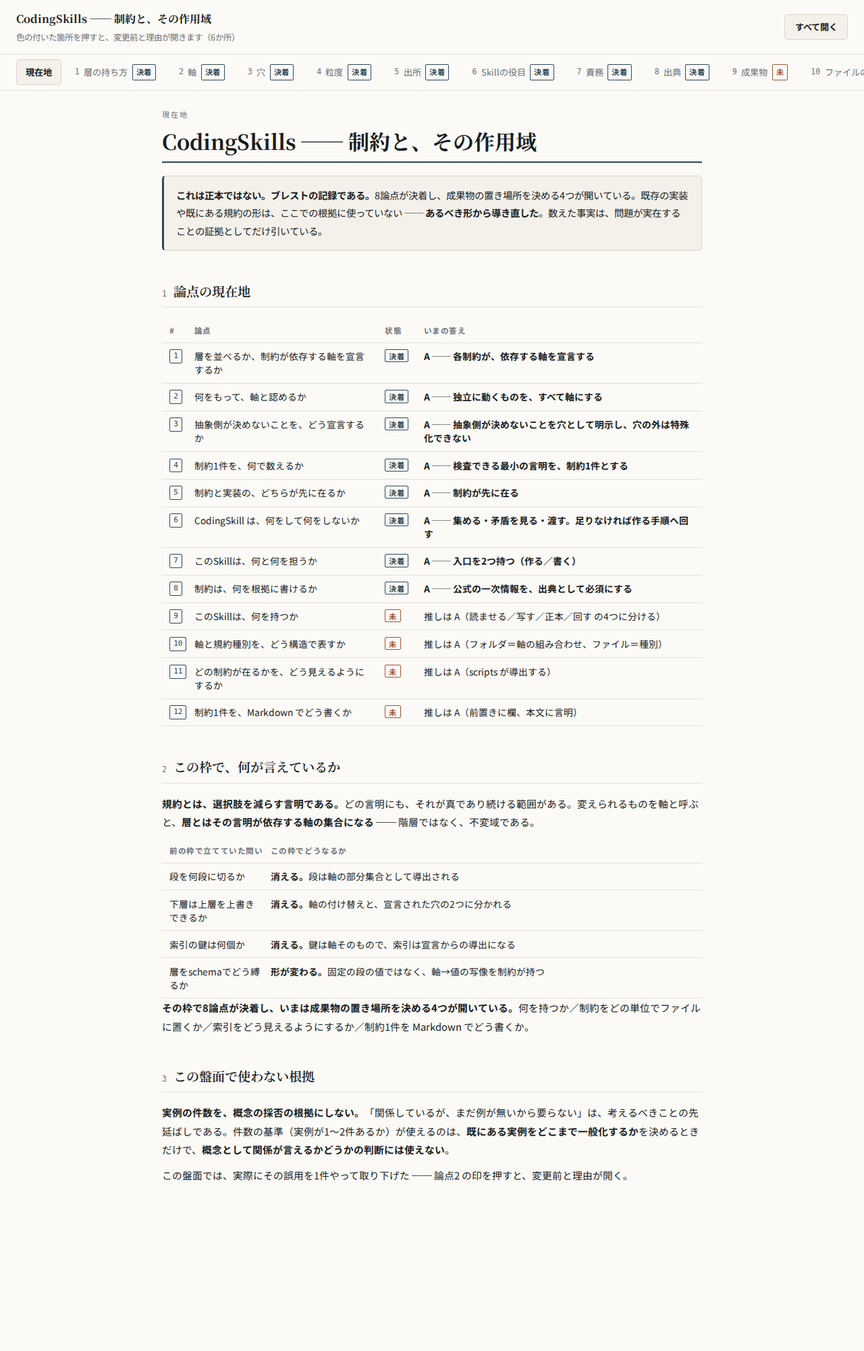
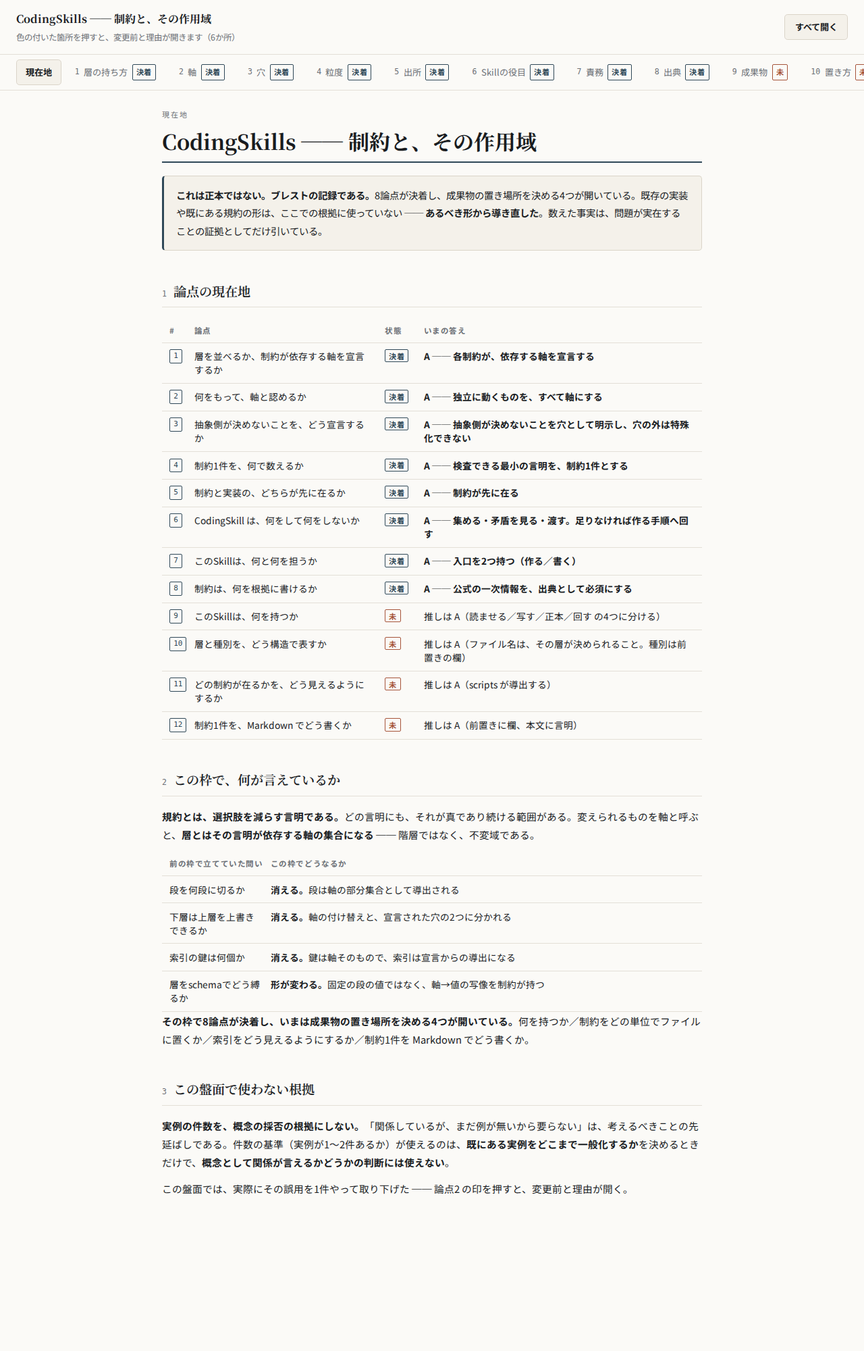
層ごとに置く文書を変え、種別は欄へ移す
すべての層へ同じ4種別の文書を並べる案を取り下げた。層ごとに決められることが
違うので、置く文書も層ごとに違う ── 言語は綴りと失敗の運び方とテストが走る
仕組み、アーキテクチャは層と依存の向き、言語×アーキは層の表し方とテストの
置き場所、用途は外との契約と保証する振る舞い。

種別（コーディング／テスト／アーキテクチャ／技術スタック）は前置きの欄に持つ。
横断で引くための分類であって、置き場所ではない。

Why: 同じ「テスト規約」でも、言語の層は走る仕組み、用途の層は保証する振る舞いで、
宣言する中身の構造が違う。同じ名前で並べると、読み手がどちらを見るかを毎回
判断することになる。アーキと言語×アーキの両方に architecture.md を置く案も、
名前が中身を言っていなかったので落とした。

Claude-Session: https://claude.ai/code/session_01VoPqHBXHr7Npdh9tNXyFNU

Changed region(s): [[0.1875, 0.465, 0.8125, 0.899], [0.9688, 0.031, 1.0, 0.062]]

diff --git a/docs/adr/brainstorm-coding-skills.html b/docs/adr/brainstorm-coding-skills.html
@@ -43,6 +43,8 @@ table.out b{color:var(--out);text-decoration:line-through}
 table.chain th:first-child,table.chain td:first-child{width:6.5rem;padding-right:.6rem}
 table.why{border-collapse:separate;border-spacing:0}
 table.why th{padding-bottom:.4rem}
+table.plainkey th:first-child,table.plainkey td:first-child{width:9rem;padding-right:.9rem;
+  white-space:normal;color:var(--key)}
 table.why th:first-child,table.why td:first-child{width:23%;padding-right:.8rem}
 table.why th:last-child,table.why td:last-child{width:27%}
 table.why td{border-bottom:none;padding:.65rem .7rem;background:var(--surface,transparent)}
@@ -122,7 +124,7 @@ mark.chg.del b{text-decoration:line-through}
 .st.done{color:var(--key);border-color:var(--key)}
 .st.open{color:var(--add);border-color:var(--add)}
 section[role="tabpanel"][hidden]{display:none}
-</style><div class="hd"><div class="t">CodingSkills ── 制約と、その作用域<small>色の付いた箇所を押すと、変更前と理由が開きます（<span id="n">0</span>か所）</small></div><button id="all" type="button">すべて開く</button></div><div class="tabs" role="tablist"><button role="tab" aria-selected="true" data-t="p0">現在地</button><button role="tab" aria-selected="false" data-t="p1"><span class="tn">1</span>層の持ち方<span class="st done">決着</span></button><button role="tab" aria-selected="false" data-t="p2"><span class="tn">2</span>軸<span class="st done">決着</span></button><button role="tab" aria-selected="false" data-t="p3"><span class="tn">3</span>穴<span class="st done">決着</span></button><button role="tab" aria-selected="false" data-t="p4"><span class="tn">4</span>粒度<span class="st done">決着</span></button><button role="tab" aria-selected="false" data-t="p5"><span class="tn">5</span>出所<span class="st done">決着</span></button><button role="tab" aria-selected="false" data-t="p6"><span class="tn">6</span>Skillの役目<span class="st done">決着</span></button><button role="tab" aria-selected="false" data-t="p7"><span class="tn">7</span>責務<span class="st done">決着</span></button><button role="tab" aria-selected="false" data-t="p8"><span class="tn">8</span>出典<span class="st done">決着</span></button><button role="tab" aria-selected="false" data-t="p9"><span class="tn">9</span>成果物<span class="st open">未</span></button><button role="tab" aria-selected="false" data-t="p10"><span class="tn">10</span>ファイルの切り方<span class="st open">未</span></button><button role="tab" aria-selected="false" data-t="p11"><span class="tn">11</span>索引<span class="st open">未</span></button><button role="tab" aria-selected="false" data-t="p12"><span class="tn">12</span>制約の書き表し方<span class="st open">未</span></button></div><main><section id="p0" role="tabpanel"><p class="eyebrow">現在地</p><h1>CodingSkills ── 制約と、その作用域</h1><div class="note"><b>これは正本ではない。ブレストの記録である。</b>8論点が決着し、成果物の置き場所を決める4つが開いている。既存の実装や既にある規約の形は、ここでの根拠に使っていない ── <b>あるべき形から導き直した</b>。数えた事実は、問題が実在することの証拠としてだけ引いている。</div><h2><span class="sn">1</span>論点の現在地</h2><div class="scroll"><table class=""><tr><th>#</th><th>論点</th><th>状態</th><th>いまの答え</th></tr><tr><td><span class="n">1</span></td><td>層を並べるか、制約が依存する軸を宣言するか</td><td><span class="st done">決着</span></td><td><b>A ── 各制約が、依存する軸を宣言する</b></td></tr><tr><td><span class="n">2</span></td><td>何をもって、軸と認めるか</td><td><span class="st done">決着</span></td><td><b>A ── 独立に動くものを、すべて軸にする</b></td></tr><tr><td><span class="n">3</span></td><td>抽象側が決めないことを、どう宣言するか</td><td><span class="st done">決着</span></td><td><b>A ── 抽象側が決めないことを穴として明示し、穴の外は特殊化できない</b></td></tr><tr><td><span class="n">4</span></td><td>制約1件を、何で数えるか</td><td><span class="st done">決着</span></td><td><b>A ── 検査できる最小の言明を、制約1件とする</b></td></tr><tr><td><span class="n">5</span></td><td>制約と実装の、どちらが先に在るか</td><td><span class="st done">決着</span></td><td><b>A ── 制約が先に在る</b></td></tr><tr><td><span class="n">6</span></td><td>CodingSkill は、何をして何をしないか</td><td><span class="st done">決着</span></td><td><b>A ── 集める・矛盾を見る・渡す。足りなければ作る手順へ回す</b></td></tr><tr><td><span class="n">7</span></td><td>このSkillは、何と何を担うか</td><td><span class="st done">決着</span></td><td><b>A ── 入口を2つ持つ（作る／書く）</b></td></tr><tr><td><span class="n">8</span></td><td>制約は、何を根拠に書けるか</td><td><span class="st done">決着</span></td><td><b>A ── 公式の一次情報を、出典として必須にする</b></td></tr><tr><td><span class="n">9</span></td><td>このSkillは、何を持つか</td><td><span class="st open">未</span></td><td>推しは A（読ませる／写す／正本／回す の4つに分ける）</td></tr><tr><td><span class="n">10</span></td><td>軸と規約種別を、どう構造で表すか</td><td><span class="st open">未</span></td><td>推しは A（フォルダ＝軸の組み合わせ、ファイル＝種別）</td></tr><tr><td><span class="n">11</span></td><td>どの制約が在るかを、どう見えるようにするか</td><td><span class="st open">未</span></td><td>推しは A（scripts が導出する）</td></tr><tr><td><span class="n">12</span></td><td>制約1件を、Markdown でどう書くか</td><td><span class="st open">未</span></td><td>推しは A（前置きに欄、本文に言明）</td></tr></table></div><h2><span class="sn">2</span>この枠で、何が言えているか</h2><p class='lead'><b>規約とは、選択肢を減らす言明である。</b>どの言明にも、それが真であり続ける範囲がある。変えられるものを軸と呼ぶと、<b>層とはその言明が依存する軸の集合になる</b> ── 階層ではなく、不変域である。</p><div class="scroll"><table class=""><tr><th>前の枠で立てていた問い</th><th>この枠でどうなるか</th></tr><tr><td>段を何段に切るか</td><td><b>消える。</b>段は軸の部分集合として導出される</td></tr><tr><td>下層は上層を上書きできるか</td><td><b>消える。</b>軸の付け替えと、宣言された穴の2つに分かれる</td></tr><tr><td>索引の鍵は何個か</td><td><b>消える。</b>鍵は軸そのもので、索引は宣言からの導出になる</td></tr><tr><td>層をschemaでどう縛るか</td><td><b>形が変わる。</b>固定の段の値ではなく、軸→値の写像を制約が持つ</td></tr></table></div><p class='lead'><b>その枠で8論点が決着し、いまは成果物の置き場所を決める4つが開いている。</b>何を持つか／制約をどの単位でファイルに置くか／索引をどう見えるようにするか／制約1件を Markdown でどう書くか。</p><h2><span class="sn">3</span>この盤面で使わない根拠</h2><p class='lead'><b>実例の件数を、概念の採否の根拠にしない。</b>「関係しているが、まだ例が無いから要らない」は、考えるべきことの先延ばしである。件数の基準（実例が1〜2件あるか）が使えるのは、<b>既にある実例をどこまで一般化するか</b>を決めるときだけで、<b>概念として関係が言えるかどうかの判断には使えない</b>。</p><p class='lead'>この盤面では、実際にその誤用を1件やって取り下げた ── 論点2 の印を押すと、変更前と理由が開く。</p></section><section id="p1" role="tabpanel" hidden><p class="eyebrow">論点 1</p><h1>層を並べるか、制約が依存する軸を宣言するか</h1><div class="note"><b>制約とは、選択肢を減らす言明である。そしてどの制約にも、それが真であり続ける範囲がある。</b>変えられるものを軸と呼ぶと、<b>層とは、その制約が依存する軸の集合になる</b>。</div><h2><span class="sn">1</span>反証を通過した案</h2><div class="scroll"><table class="opts"><tr><th></th><th>案</th><th>中身</th><th>代償</th></tr><tr><td><span class="n ">A</span></td><td><b>各制約が、依存する軸を宣言する</b></td><td>層は宣言から導出される。フォルダは、その導出をどう並べて見せるかにすぎない</td><td><span class="cost">制約1件ごとに宣言を書く手間が増える。<b>層が一覧として見えないので、見せ方を別に作る</b></span></td></tr><tr><td><span class="n ">B</span></td><td><b>層をあらかじめ並べ、制約をそこへ置く</b></td><td>言語／アーキ／束ね／目的の段を先に決め、規約をその段へ配る</td><td><span class="cost"><b>軸が増えたとき、段の切り直しになる</b>。実行環境や規模を軸に足したくなった時点で、全部を並べ替える</span></td></tr><tr><td><span class="n ">C</span></td><td><b>層を持たず、場面ごとに規約一式を作る</b></td><td>目的と言語の組ごとに、必要な制約を全部書く</td><td><span class="cost">同じ言明が組の数だけ写る。<b>直す場所が1か所に決まらない</b></span></td></tr></table></div><h2><span class="sn">2</span>反証で分かったこと</h2><ul class='found'><li><b>「4段」は、軸を2本に絞ったときの部分集合にすぎなかった。</b>段数は決めるものではなく、軸から導出される</li><li><b>フォルダ構成は、この論点の答えではない。</b>導出をどう見せるかであって、何が真かとは別のこと</li></ul><h2><span class="sn">3</span>私の推し</h2><div class="concl"><span class="n big">A</span><div><p>各制約が、依存する軸を宣言する。層はそこから導出する</p></div></div><h3>なぜそう言えるか</h3><div class="scroll"><table class="why"><tr><th>結論のどこを支えるか</th><th>もとにしたこと</th><th>その出どころ</th></tr><tr><td><span class="part">層を導出にすること</span></td><td>層とは、制約が依存する軸の集合である</td><td><span class="kind k-given">前提</span><small>この盤面の出発点（規約＝制約の宣言、作用域＝依存する軸）</small></td></tr><tr><td><span class="part">並べないこと</span></td><td>層を先に並べると、宣言の誤りが「どの段に置くか」の悩みとして出る</td><td><span class="kind k-rule">決まり</span><small>前の枠で実際に4段を並べ、段の切り方が論点になった</small></td></tr><tr><td><span class="part">フォルダを答えにしないこと</span></td><td>同じ制約が2か所に現れるのは、軸の宣言が足りないとき</td><td><span class="kind k-given">前提</span><small>既存の規約13本で、同じ言明が対象ごとに写っている（`.waffle/documents/coding`）</small></td></tr></table></div><h3>図で見る</h3><figure><svg viewBox="0 0 780 320" role="img" aria-label="各制約が依存する軸を宣言すると、層はその宣言から導出される">
+</style><div class="hd"><div class="t">CodingSkills ── 制約と、その作用域<small>色の付いた箇所を押すと、変更前と理由が開きます（<span id="n">0</span>か所）</small></div><button id="all" type="button">すべて開く</button></div><div class="tabs" role="tablist"><button role="tab" aria-selected="true" data-t="p0">現在地</button><button role="tab" aria-selected="false" data-t="p1"><span class="tn">1</span>層の持ち方<span class="st done">決着</span></button><button role="tab" aria-selected="false" data-t="p2"><span class="tn">2</span>軸<span class="st done">決着</span></button><button role="tab" aria-selected="false" data-t="p3"><span class="tn">3</span>穴<span class="st done">決着</span></button><button role="tab" aria-selected="false" data-t="p4"><span class="tn">4</span>粒度<span class="st done">決着</span></button><button role="tab" aria-selected="false" data-t="p5"><span class="tn">5</span>出所<span class="st done">決着</span></button><button role="tab" aria-selected="false" data-t="p6"><span class="tn">6</span>Skillの役目<span class="st done">決着</span></button><button role="tab" aria-selected="false" data-t="p7"><span class="tn">7</span>責務<span class="st done">決着</span></button><button role="tab" aria-selected="false" data-t="p8"><span class="tn">8</span>出典<span class="st done">決着</span></button><button role="tab" aria-selected="false" data-t="p9"><span class="tn">9</span>成果物<span class="st open">未</span></button><button role="tab" aria-selected="false" data-t="p10"><span class="tn">10</span>置き方<span class="st open">未</span></button><button role="tab" aria-selected="false" data-t="p11"><span class="tn">11</span>索引<span class="st open">未</span></button><button role="tab" aria-selected="false" data-t="p12"><span class="tn">12</span>制約の書き表し方<span class="st open">未</span></button></div><main><section id="p0" role="tabpanel"><p class="eyebrow">現在地</p><h1>CodingSkills ── 制約と、その作用域</h1><div class="note"><b>これは正本ではない。ブレストの記録である。</b>8論点が決着し、成果物の置き場所を決める4つが開いている。既存の実装や既にある規約の形は、ここでの根拠に使っていない ── <b>あるべき形から導き直した</b>。数えた事実は、問題が実在することの証拠としてだけ引いている。</div><h2><span class="sn">1</span>論点の現在地</h2><div class="scroll"><table class=""><tr><th>#</th><th>論点</th><th>状態</th><th>いまの答え</th></tr><tr><td><span class="n">1</span></td><td>層を並べるか、制約が依存する軸を宣言するか</td><td><span class="st done">決着</span></td><td><b>A ── 各制約が、依存する軸を宣言する</b></td></tr><tr><td><span class="n">2</span></td><td>何をもって、軸と認めるか</td><td><span class="st done">決着</span></td><td><b>A ── 独立に動くものを、すべて軸にする</b></td></tr><tr><td><span class="n">3</span></td><td>抽象側が決めないことを、どう宣言するか</td><td><span class="st done">決着</span></td><td><b>A ── 抽象側が決めないことを穴として明示し、穴の外は特殊化できない</b></td></tr><tr><td><span class="n">4</span></td><td>制約1件を、何で数えるか</td><td><span class="st done">決着</span></td><td><b>A ── 検査できる最小の言明を、制約1件とする</b></td></tr><tr><td><span class="n">5</span></td><td>制約と実装の、どちらが先に在るか</td><td><span class="st done">決着</span></td><td><b>A ── 制約が先に在る</b></td></tr><tr><td><span class="n">6</span></td><td>CodingSkill は、何をして何をしないか</td><td><span class="st done">決着</span></td><td><b>A ── 集める・矛盾を見る・渡す。足りなければ作る手順へ回す</b></td></tr><tr><td><span class="n">7</span></td><td>このSkillは、何と何を担うか</td><td><span class="st done">決着</span></td><td><b>A ── 入口を2つ持つ（作る／書く）</b></td></tr><tr><td><span class="n">8</span></td><td>制約は、何を根拠に書けるか</td><td><span class="st done">決着</span></td><td><b>A ── 公式の一次情報を、出典として必須にする</b></td></tr><tr><td><span class="n">9</span></td><td>このSkillは、何を持つか</td><td><span class="st open">未</span></td><td>推しは A（読ませる／写す／正本／回す の4つに分ける）</td></tr><tr><td><span class="n">10</span></td><td>層と種別を、どう構造で表すか</td><td><span class="st open">未</span></td><td>推しは A（ファイル名は、その層が決められること。種別は前置きの欄）</td></tr><tr><td><span class="n">11</span></td><td>どの制約が在るかを、どう見えるようにするか</td><td><span class="st open">未</span></td><td>推しは A（scripts が導出する）</td></tr><tr><td><span class="n">12</span></td><td>制約1件を、Markdown でどう書くか</td><td><span class="st open">未</span></td><td>推しは A（前置きに欄、本文に言明）</td></tr></table></div><h2><span class="sn">2</span>この枠で、何が言えているか</h2><p class='lead'><b>規約とは、選択肢を減らす言明である。</b>どの言明にも、それが真であり続ける範囲がある。変えられるものを軸と呼ぶと、<b>層とはその言明が依存する軸の集合になる</b> ── 階層ではなく、不変域である。</p><div class="scroll"><table class=""><tr><th>前の枠で立てていた問い</th><th>この枠でどうなるか</th></tr><tr><td>段を何段に切るか</td><td><b>消える。</b>段は軸の部分集合として導出される</td></tr><tr><td>下層は上層を上書きできるか</td><td><b>消える。</b>軸の付け替えと、宣言された穴の2つに分かれる</td></tr><tr><td>索引の鍵は何個か</td><td><b>消える。</b>鍵は軸そのもので、索引は宣言からの導出になる</td></tr><tr><td>層をschemaでどう縛るか</td><td><b>形が変わる。</b>固定の段の値ではなく、軸→値の写像を制約が持つ</td></tr></table></div><p class='lead'><b>その枠で8論点が決着し、いまは成果物の置き場所を決める4つが開いている。</b>何を持つか／制約をどの単位でファイルに置くか／索引をどう見えるようにするか／制約1件を Markdown でどう書くか。</p><h2><span class="sn">3</span>この盤面で使わない根拠</h2><p class='lead'><b>実例の件数を、概念の採否の根拠にしない。</b>「関係しているが、まだ例が無いから要らない」は、考えるべきことの先延ばしである。件数の基準（実例が1〜2件あるか）が使えるのは、<b>既にある実例をどこまで一般化するか</b>を決めるときだけで、<b>概念として関係が言えるかどうかの判断には使えない</b>。</p><p class='lead'>この盤面では、実際にその誤用を1件やって取り下げた ── 論点2 の印を押すと、変更前と理由が開く。</p></section><section id="p1" role="tabpanel" hidden><p class="eyebrow">論点 1</p><h1>層を並べるか、制約が依存する軸を宣言するか</h1><div class="note"><b>制約とは、選択肢を減らす言明である。そしてどの制約にも、それが真であり続ける範囲がある。</b>変えられるものを軸と呼ぶと、<b>層とは、その制約が依存する軸の集合になる</b>。</div><h2><span class="sn">1</span>反証を通過した案</h2><div class="scroll"><table class="opts"><tr><th></th><th>案</th><th>中身</th><th>代償</th></tr><tr><td><span class="n ">A</span></td><td><b>各制約が、依存する軸を宣言する</b></td><td>層は宣言から導出される。フォルダは、その導出をどう並べて見せるかにすぎない</td><td><span class="cost">制約1件ごとに宣言を書く手間が増える。<b>層が一覧として見えないので、見せ方を別に作る</b></span></td></tr><tr><td><span class="n ">B</span></td><td><b>層をあらかじめ並べ、制約をそこへ置く</b></td><td>言語／アーキ／束ね／目的の段を先に決め、規約をその段へ配る</td><td><span class="cost"><b>軸が増えたとき、段の切り直しになる</b>。実行環境や規模を軸に足したくなった時点で、全部を並べ替える</span></td></tr><tr><td><span class="n ">C</span></td><td><b>層を持たず、場面ごとに規約一式を作る</b></td><td>目的と言語の組ごとに、必要な制約を全部書く</td><td><span class="cost">同じ言明が組の数だけ写る。<b>直す場所が1か所に決まらない</b></span></td></tr></table></div><h2><span class="sn">2</span>反証で分かったこと</h2><ul class='found'><li><b>「4段」は、軸を2本に絞ったときの部分集合にすぎなかった。</b>段数は決めるものではなく、軸から導出される</li><li><b>フォルダ構成は、この論点の答えではない。</b>導出をどう見せるかであって、何が真かとは別のこと</li></ul><h2><span class="sn">3</span>私の推し</h2><div class="concl"><span class="n big">A</span><div><p>各制約が、依存する軸を宣言する。層はそこから導出する</p></div></div><h3>なぜそう言えるか</h3><div class="scroll"><table class="why"><tr><th>結論のどこを支えるか</th><th>もとにしたこと</th><th>その出どころ</th></tr><tr><td><span class="part">層を導出にすること</span></td><td>層とは、制約が依存する軸の集合である</td><td><span class="kind k-given">前提</span><small>この盤面の出発点（規約＝制約の宣言、作用域＝依存する軸）</small></td></tr><tr><td><span class="part">並べないこと</span></td><td>層を先に並べると、宣言の誤りが「どの段に置くか」の悩みとして出る</td><td><span class="kind k-rule">決まり</span><small>前の枠で実際に4段を並べ、段の切り方が論点になった</small></td></tr><tr><td><span class="part">フォルダを答えにしないこと</span></td><td>同じ制約が2か所に現れるのは、軸の宣言が足りないとき</td><td><span class="kind k-given">前提</span><small>既存の規約13本で、同じ言明が対象ごとに写っている（`.waffle/documents/coding`）</small></td></tr></table></div><h3>図で見る</h3><figure><svg viewBox="0 0 780 320" role="img" aria-label="各制約が依存する軸を宣言すると、層はその宣言から導出される">
 <text x="8" y="18" font-size="11.5" font-weight="700" fill="var(--muted)">制約</text>
 <text x="330" y="18" font-size="11.5" font-weight="700" fill="var(--muted)">依存する軸</text>
 <text x="600" y="18" font-size="11.5" font-weight="700" fill="var(--key)">導出される層</text>
@@ -381,7 +383,50 @@ section[role="tabpanel"][hidden]{display:none}
 <text x="338" y="280" font-size="11" fill="var(--add)">軸の値を渡すと、合致した制約が集まって返る</text>
 <text x="8" y="306" font-size="11.5" fill="var(--muted)">4つは役割が違う ── <tspan font-weight="700" fill="var(--key)">読ませる／写す／正本／回す</tspan>。混ぜると、どれを読むべきかを毎回判断することになる。</text>
 <text x="8" y="324" font-size="11.5" fill="var(--muted)">層でフォルダを切らない。<tspan font-weight="700" fill="var(--add)">層は宣言から導出され、フォルダは人が読むための投影にすぎない</tspan>（論点1）。</text>
-</svg><figcaption>左が置くもの、右がそれを誰がいつ使うかである。</figcaption></figure><h3>引き受けること</h3><ul class="found"><li>置き場所の判断が、制約を書くたびに1回増える</li></ul><h3>まだ崩れうるところ</h3><ul class="found"><li>scripts が動く環境（Python）を前提にする ── 動かない環境では、集める段が手作業に落ちる</li></ul><h2><span class="sn">4</span>あなたの見解</h2><div class="you">✏　記号を選ぶ（どれでもなければ、そう言う）</div><h2><span class="sn">5</span>決まり</h2><div class="next">選ばれた案が合意になり、次の論点へ</div></section><section id="p10" role="tabpanel" hidden><p class="eyebrow">論点 10</p><h1>軸と規約種別を、どう構造で表すか</h1><div class="note"><b>軸（層）と規約種別は直交する。</b>どちらか片方だけで切ると、もう片方が中に埋もれて、揃えて読むことも、機械で絞ることもできなくなる。</div><h2><span class="sn">1</span>反証を通過した案</h2><div class="scroll"><table class="opts"><tr><th></th><th>案</th><th>中身</th><th>代償</th></tr><tr><td><span class="n ">A</span></td><td><b>フォルダ＝軸の組み合わせ、ファイル＝種別</b></td><td><code>lang.rust/coding.md</code>、<code>lang.rust+arch.hexagonal/architecture.md</code> のように置く</td><td><span class="cost">軸の組み合わせをフォルダ名で表す規則が要る。<b>フォルダ名と前置きの軸が食い違いうる</b>（検めれば分かる）</span></td></tr><tr><td><span class="n ">B</span></td><td><b>フォルダ＝種別、ファイル＝軸の組み合わせ</b></td><td><code>coding/lang.rust.md</code>、<code>architecture/purpose.hook.md</code> のように置く</td><td><span class="cost"><b>集める側が、種別のフォルダを全部横断することになる</b> ── 絞りは軸で始まるのに、上位が種別になっている</span></td></tr><tr><td><span class="n ">C</span></td><td><b>軸だけで1ファイルにまとめ、種別は中の見出しで分ける</b></td><td><code>lang.rust.md</code> の中に、コーディング・テスト・技術スタックの節を置く</td><td><span class="cost"><b>種別ごとに揃えて読めない。</b>「テスト規約だけを全部見る」が、全ファイルを開く操作になる</span></td></tr></table></div><h2><span class="sn">2</span>落とした案と、その理由</h2><div class="scroll"><table class="out"><tr><th></th><th>案</th><th>落とした理由</th></tr><tr><td><span class="n out">×</span></td><td><mark class="chg del" tabindex="0" role="button" aria-expanded="false" data-b="この案は残っていた" data-w="人が1本として読んで承認する単位が消える。承認は人が読む単位に従う"><b>平らに置き、フォルダを持たない（索引だけ生成する）</b></mark></td><td>人が1本として読んで承認する単位が消える。承認は人が読む単位に従う</td></tr></table></div><h2><span class="sn">3</span>反証で分かったこと</h2><ul class='found'><li><b>1ファイル＝〈軸の組み合わせ〉×〈種別〉の1マス</b>になる ── 段と種別が直交するという確認が、そのまま置き方になる</li><li><b>空のマスは作らない。</b>言語の段に「層と依存の向き」は無いので、<code>lang.go/architecture.md</code> は置かない</li><li><b>フォルダ名は投影であって鍵ではない。</b>制約の軸は前置きが持ち、食い違いは scripts が見つける</li></ul><h2><span class="sn">4</span>私の推し</h2><div class="concl"><span class="n big">A</span><div><p>フォルダで軸の組み合わせを表し、ファイル名で種別を表す。1ファイルがそのマス1つになる</p></div></div><h3>なぜそう言えるか</h3><div class="scroll"><table class="why"><tr><th>結論のどこを支えるか</th><th>もとにしたこと</th><th>その出どころ</th></tr><tr><td><span class="part">軸を上位に置くこと</span></td><td>集める操作は、軸の値で絞ることから始まる</td><td><span class="kind k-rule">決まり</span><small>論点11 の推し（索引は軸の値から導出する）</small></td></tr><tr><td><span class="part">種別をファイルにすること</span></td><td>種別と軸は直交する ── 片方をフォルダ、片方をファイル名にすれば、両方が残る</td><td><span class="kind k-rule">決まり</span><small>前の枠で確かめた（段と規約種別は別の軸）</small></td></tr><tr><td><span class="part">1マスを1ファイルにすること</span></td><td>人が読んで承認する単位は文書である</td><td><span class="kind k-rule">決まり</span><small>schema 観の三層の論点2（単位は読み手に従属する）</small></td></tr></table></div><h3>図で見る</h3><figure><svg viewBox="0 0 780 340" role="img" aria-label="フォルダが軸の組み合わせを表し、ファイル名が規約の種別を表す">
+</svg><figcaption>左が置くもの、右がそれを誰がいつ使うかである。</figcaption></figure><h3>引き受けること</h3><ul class="found"><li>置き場所の判断が、制約を書くたびに1回増える</li></ul><h3>まだ崩れうるところ</h3><ul class="found"><li>scripts が動く環境（Python）を前提にする ── 動かない環境では、集める段が手作業に落ちる</li></ul><h2><span class="sn">4</span>あなたの見解</h2><div class="you">✏　記号を選ぶ（どれでもなければ、そう言う）</div><h2><span class="sn">5</span>決まり</h2><div class="next">選ばれた案が合意になり、次の論点へ</div></section><section id="p10" role="tabpanel" hidden><p class="eyebrow">論点 10</p><h1>層と種別を、どう構造で表すか</h1><div class="note"><b>層ごとに、決められることが違う。</b>言語は層を知らず、アーキテクチャは表し方を知らず、用途だけが可変である。だから<b>同じ4種別を全層へ等しく置くのは、境界を見ていない</b>。</div><h2><span class="sn">1</span>反証を通過した案</h2><div class="scroll"><table class="opts"><tr><th></th><th>案</th><th>中身</th><th>代償</th></tr><tr><td><span class="n ">A</span></td><td><b>ファイル名は、その層が決められることの単位。種別は前置きの欄</b></td><td><code>lang.rust/failure.md</code>、<code>arch.hexagonal/dependency.md</code>、<code>lang.rust+arch.hexagonal/layer-mapping.md</code>、<code>purpose.hook/contract.md</code></td><td><span class="cost">ファイル名が層ごとに違うので、<b>層をまたいで同じ名前を探せない</b>。横断は種別の欄で引く</span></td></tr><tr><td><span class="n ">B</span></td><td><b>全ての層に、同じ4種別のファイルを置く</b></td><td>どのフォルダにも coding/test/architecture/tech-stack を並べる</td><td><span class="cost"><b>同じ名前で構造の違う文書が並ぶ。</b>言語の test は「走る仕組み」、用途の test は「何を保証するか」で、読み手はどちらを見るかを毎回判断する</span></td></tr><tr><td><span class="n ">C</span></td><td><b>種別をフォルダ、層をファイルにする</b></td><td><code>test/lang.rust.md</code>、<code>test/purpose.hook.md</code> のように置く</td><td><span class="cost">同じ問題が向きを変えて残る ── <b>1つの種別の中に、構造の違う文書が並ぶ</b></span></td></tr></table></div><h2><span class="sn">2</span>層ごとに、決められること／決められないこと</h2><p class="lead">この表が、置く文書をそのまま決める。</p><div class="scroll"><table class="plainkey"><tr><th></th><th>決められる</th><th>決められない</th></tr><tr><td><b>言語</b></td><td>綴りと書式、失敗の運び方、並行の単位、テストが走る仕組み、標準の道具</td><td>どんな層があるか（アーキが決める）／何を保証するか（用途が決める）</td></tr><tr><td><b>アーキテクチャ</b></td><td>層の名前、依存の向き、層ごとの責務</td><td>それを何で表すか（言語が決める）</td></tr><tr><td><b>言語 × アーキ</b></td><td>層を何で表すか、向きを何で守るか、テストの置き場所</td><td>何を保証するか（用途が決める）</td></tr><tr><td><b>用途</b></td><td>外との契約、起動と終了、保証する振る舞い、採るアーキテクチャ、採る道具</td><td>── ここが可変で、上の3層が空けた穴を埋める</td></tr></table></div><h2><span class="sn">3</span>落とした案と、その理由</h2><div class="scroll"><table class="out"><tr><th></th><th>案</th><th>落とした理由</th></tr><tr><td><span class="n out">×</span></td><td><mark class="chg del" tabindex="0" role="button" aria-expanded="false" data-b="この案は残っていた" data-w="同じ名前の文書が2か所に在り、どちらを見るかが決まらない。後者が declaring しているのは「層の表し方」であって、層そのものではない ── 名前が中身を言っていなかった"><b>層ごとに同じ architecture.md を置く（アーキと、言語×アーキの両方に）</b></mark></td><td>同じ名前の文書が2か所に在り、どちらを見るかが決まらない。後者が declaring しているのは「層の表し方」であって、層そのものではない ── 名前が中身を言っていなかった</td></tr></table></div><h2><span class="sn">4</span>反証で分かったこと</h2><ul class='found'><li><b>種別は置き場所ではなく、欄である。</b>横断で引くための分類なので、前置きに持てば絞れる（索引は導出される）</li><li><b>同じ種別でも、層が違えば構造が違う。</b>言語のテストは走る仕組み、用途のテストは保証する振る舞い ── 名前を分けないと、読み手が毎回選り分ける</li><li><b>参照する場所は、軸の組み合わせの数だけになる。</b>種別を掛けないので、同じことが2か所に現れない</li></ul><h2><span class="sn">5</span>私の推し</h2><div class="concl"><span class="n big">A</span><div><p>ファイル名は、その層が決められることの単位にする。種別（コーディング／テスト／アーキテクチャ／技術スタック）は前置きの欄に持つ</p></div></div><h3>なぜそう言えるか</h3><div class="scroll"><table class="why"><tr><th>結論のどこを支えるか</th><th>もとにしたこと</th><th>その出どころ</th></tr><tr><td><span class="part">層ごとに名前を変えること</span></td><td>言語は層を知らず、アーキテクチャは表し方を知らず、用途だけが可変である</td><td><span class="kind k-rule">決まり</span><small>論点1・2 の決まり（層は依存する軸の集合、軸は独立に動くもの）</small></td></tr><tr><td><span class="part">4種別を並べないこと</span></td><td>同じ「テスト規約」でも、言語の層と用途の層では宣言する中身の構造が違う</td><td><span class="kind k-given">前提</span><small>上の表（層ごとに決められること）── この盤面で導いた</small></td></tr><tr><td><span class="part">種別を欄にすること</span></td><td>索引は宣言からの導出になるので、欄で絞れる</td><td><span class="kind k-rule">決まり</span><small>論点11 の推し（scripts が索引を導出する）</small></td></tr></table></div><h3>図で見る</h3><figure><svg viewBox="0 0 780 360" role="img" aria-label="層ごとに決められることが違うので、置かれる文書も層ごとに違う">
+<text x="8" y="18" font-size="11" fill="var(--muted)">層</text>
+<text x="150" y="18" font-size="11" fill="var(--muted)">その層でしか決まらないこと</text>
+<text x="470" y="18" font-size="11" fill="var(--muted)">置く文書</text>
+<line x1="8" y1="26" x2="772" y2="26" stroke="var(--rule)"/>
+
+<rect x="8" y="36" width="132" height="62" fill="none" stroke="var(--key)" stroke-width="1.6"/>
+<text x="74" y="60" text-anchor="middle" font-size="12" font-weight="700" fill="var(--key)">言語</text>
+<text x="74" y="78" text-anchor="middle" font-size="10" fill="var(--muted)">変わらないのは、</text>
+<text x="74" y="91" text-anchor="middle" font-size="10" fill="var(--muted)">その言語である限り</text>
+<text x="150" y="52" font-size="10.5" fill="currentColor">綴りと書式／失敗の運び方／並行の単位</text>
+<text x="150" y="70" font-size="10.5" fill="currentColor">テストが走る仕組み／標準の道具</text>
+<text x="150" y="90" font-size="10" fill="var(--add)">層のことは知らない ── どんな層があるかはアーキが決める</text>
+<text x="470" y="52" font-size="10.5" fill="var(--key)">style.md　failure.md</text>
+<text x="470" y="70" font-size="10.5" fill="var(--key)">test-mechanism.md　toolchain.md</text>
+
+<rect x="8" y="110" width="132" height="52" fill="none" stroke="var(--key)" stroke-width="1.6"/>
+<text x="74" y="132" text-anchor="middle" font-size="12" font-weight="700" fill="var(--key)">アーキテクチャ</text>
+<text x="74" y="150" text-anchor="middle" font-size="10" fill="var(--muted)">言語を知らない</text>
+<text x="150" y="128" font-size="10.5" fill="currentColor">層の名前／依存の向き／層ごとの責務</text>
+<text x="150" y="148" font-size="10" fill="var(--add)">表し方は知らない ── 何で表すかは言語が決める</text>
+<text x="470" y="128" font-size="10.5" fill="var(--key)">layers.md　dependency.md</text>
+
+<rect x="8" y="174" width="132" height="52" fill="none" stroke="var(--key)" stroke-width="1.6"/>
+<text x="74" y="196" text-anchor="middle" font-size="11.5" font-weight="700" fill="var(--key)">言語 × アーキ</text>
+<text x="74" y="214" text-anchor="middle" font-size="10" fill="var(--muted)">両方が要る</text>
+<text x="150" y="192" font-size="10.5" fill="currentColor">層を何で表すか／向きを何で守るか／テストの置き場所</text>
+<text x="150" y="212" font-size="10" fill="var(--add)">何を保証するかは知らない ── それは用途が決める</text>
+<text x="470" y="192" font-size="10.5" fill="var(--key)">layer-mapping.md　test-placement.md</text>
+
+<rect x="8" y="238" width="132" height="62" fill="none" stroke="var(--add)" stroke-width="1.9"/>
+<text x="74" y="262" text-anchor="middle" font-size="12" font-weight="700" fill="var(--add)">用途</text>
+<text x="74" y="280" text-anchor="middle" font-size="10" fill="var(--muted)">API ／ Hook ／ MCP</text>
+<text x="74" y="293" text-anchor="middle" font-size="10" fill="var(--muted)">ここだけが可変</text>
+<text x="150" y="256" font-size="10.5" fill="currentColor">外との契約／起動と終了／保証する振る舞い</text>
+<text x="150" y="274" font-size="10.5" fill="currentColor">採るアーキテクチャ／採る道具</text>
+<text x="150" y="294" font-size="10" fill="var(--add)">上の3層が空けた穴を埋める</text>
+<text x="470" y="256" font-size="10.5" fill="var(--add)">contract.md　lifecycle.md</text>
+<text x="470" y="274" font-size="10.5" fill="var(--add)">acceptance.md　stack.md</text>
+
+<line x1="8" y1="314" x2="772" y2="314" stroke="var(--rule)"/>
+<text x="8" y="336" font-size="11.5" fill="var(--muted)">同じ4種別を全層へ置かない。<tspan font-weight="700" fill="var(--add)">言語のテストは「走る仕組み」、用途のテストは「何を保証するか」で、構造が別である。</tspan></text>
+<text x="8" y="354" font-size="11" fill="var(--muted)">種別（コーディング／テスト／アーキテクチャ／技術スタック）は前置きの欄に持ち、横断で引くときに使う ── 置き場所には使わない。</text>
+</svg><figcaption>左が層、中が「その層でしか決まらないこと」、右がそこに置く文書である。</figcaption></figure><figure><svg viewBox="0 0 780 340" role="img" aria-label="フォルダが軸の組み合わせを表し、ファイル名が規約の種別を表す">
 <text x="8" y="18" font-size="11.5" font-weight="700" fill="var(--key)">フォルダ＝軸の組み合わせ（層）</text>
 <text x="330" y="18" font-size="11.5" font-weight="700" fill="var(--add)">ファイル＝規約の種別</text>
 <line x1="8" y1="26" x2="772" y2="26" stroke="var(--rule)"/>
@@ -416,7 +461,7 @@ section[role="tabpanel"][hidden]{display:none}
 <text x="8" y="284" font-size="11.5" fill="var(--muted)">1ファイル＝<tspan font-weight="700" fill="var(--key)">〈軸の組み合わせ〉×〈種別〉</tspan>の1マス。人が1本として読んで承認する単位になる。</text>
 <text x="8" y="304" font-size="11.5" fill="var(--muted)">空のマスは作らない ── <tspan font-weight="700">言語の段に「層と依存の向き」は無い</tspan>ので、lang.go に architecture.md は置かない。</text>
 <text x="8" y="326" font-size="11" fill="var(--add)">フォルダ名は投影であって鍵ではない。制約の軸は前置きが持ち、食い違いは scripts が見つける。</text>
-</svg><figcaption>フォルダが軸の組み合わせ、ファイル名が種別で、1ファイルがそのマス1つになる。</figcaption></figure><h3>引き受けること</h3><ul class="found"><li>軸の組み合わせをフォルダ名で表す規則が要る（<code>lang.rust+arch.hexagonal</code>）</li><li>フォルダ名と前置きの軸が食い違いうるので、scripts で検める</li></ul><h3>まだ崩れうるところ</h3><ul class="found"><li>軸が3つ以上に増えると、フォルダ名が長くなる</li><li>種別が4つで足りるかは、まだ確かめていない（既存には5つ目として tool-integration が在る）</li></ul><h2><span class="sn">5</span>あなたの見解</h2><div class="you">✏　記号を選ぶ（どれでもなければ、そう言う）</div><h2><span class="sn">6</span>決まり</h2><div class="next">選ばれた案が合意になり、次の論点へ</div></section><section id="p11" role="tabpanel" hidden><p class="eyebrow">論点 11</p><h1>どの制約が在るかを、どう見えるようにするか</h1><div class="note"><b>取得が揺れると、推論の入力が毎回変わる。</b>索引は便利さの話ではなく、出力の安定の話である。</div><h2><span class="sn">1</span>反証を通過した案</h2><div class="scroll"><table class="opts"><tr><th></th><th>案</th><th>中身</th><th>代償</th></tr><tr><td><span class="n ">A</span></td><td><b>scripts が索引を導出する</b></td><td>軸の値を渡すと合致する制約が返り、人が読む一覧も同じ仕組みで生成する</td><td><span class="cost">生成物を正本と取り違えないよう、<b>生成した索引は書き換え禁止にする必要がある</b></span></td></tr><tr><td><span class="n ">B</span></td><td><b>索引を手で書いて置く</b></td><td>制約を足したら、索引にも1行足す</td><td><span class="cost"><b>足し忘れが観測できない。</b>索引に無い制約は、集める側から存在しないのと同じになる</span></td></tr></table></div><h2><span class="sn">2</span>反証で分かったこと</h2><ul class='found'><li><b>索引を導出にすると、不在が観測できる</b> ── 「その軸の制約は0件」と言い切れる</li></ul><h2><span class="sn">3</span>私の推し</h2><div class="concl"><span class="n big">A</span><div><p>scripts が索引を導出する。人は索引を書かない</p></div></div><h3>なぜそう言えるか</h3><div class="scroll"><table class="why"><tr><th>結論のどこを支えるか</th><th>もとにしたこと</th><th>その出どころ</th></tr><tr><td><span class="part">導出にすること</span></td><td>同じ問いに同じ範囲が返らないと、推論の入力が毎回変わる</td><td><span class="kind k-rule">決まり</span><small>schema 観の三層の論点2（取得は冪等でありうる）</small></td></tr><tr><td><span class="part">手で書かないこと</span></td><td>足し忘れは、不在として現れない</td><td><span class="kind k-rule">決まり</span><small>論点3 の決まり（宣言されない差は、上書きの形でしか現れない）</small></td></tr></table></div><h3>引き受けること</h3><ul class="found"><li>生成した索引を、正本と取り違えないようにする</li></ul><h2><span class="sn">4</span>あなたの見解</h2><div class="you">✏　記号を選ぶ（どれでもなければ、そう言う）</div><h2><span class="sn">5</span>決まり</h2><div class="next">選ばれた案が合意になり、次の論点へ</div></section><section id="p12" role="tabpanel" hidden><p class="eyebrow">論点 12</p><h1>制約1件を、Markdown でどう書くか</h1><div class="note"><b>schema へ落とすことを前提にする。</b>機械が読む欄と、人が読む本文を分けられる形を選ぶ。</div><h2><span class="sn">1</span>反証を通過した案</h2><div class="scroll"><table class="opts"><tr><th></th><th>案</th><th>中身</th><th>代償</th></tr><tr><td><span class="n ">A</span></td><td><b>前置き（front matter）に欄、本文に言明</b></td><td>軸・出典・穴か・実行できるか を前置きへ、言明そのものを本文へ書く</td><td><span class="cost"><b>前置きは人に読みにくい。</b>読む用の一覧を、別に生成する必要がある</span></td></tr><tr><td><span class="n ">B</span></td><td><b>表で並べる（1行1制約）</b></td><td>欄を列にして、制約を行として並べる</td><td><span class="cost"><b>欄が増えると横に伸びて読めない。</b>出典のように長い欄が入ると破綻する</span></td></tr><tr><td><span class="n ">C</span></td><td><b>見出しで構造を作る</b></td><td>制約ごとに見出しを立て、その下に欄を節として書く</td><td><span class="cost"><b>欄の有無を機械で検めにくい。</b>見出しの揺れがそのまま欄の揺れになる</span></td></tr></table></div><h2><span class="sn">2</span>反証で分かったこと</h2><ul class='found'><li><b>欄と本文を分ける形は、そのまま schema の形になる</b> ── 前置きが構造、本文が推論で埋まる値</li><li><b>これは三層の「値だけを推論させる」と同じ形である</b> ── 構造は前置きが決め、言明だけが書き手に残る</li></ul><h2><span class="sn">3</span>私の推し</h2><div class="concl"><span class="n big">A</span><div><p>前置きに欄（軸・出典・穴か・実行できるか）を持ち、本文に言明を書く</p></div></div><h3>なぜそう言えるか</h3><div class="scroll"><table class="why"><tr><th>結論のどこを支えるか</th><th>もとにしたこと</th><th>その出どころ</th></tr><tr><td><span class="part">欄と本文を分けること</span></td><td>構造は schema が決め、推論に載るのは値だけである</td><td><span class="kind k-rule">決まり</span><small>schema 観の三層の論点1</small></td></tr><tr><td><span class="part">表にしないこと</span></td><td>出典は原文の文字列まで持つので、1つの欄が長くなる</td><td><span class="kind k-rule">決まり</span><small>論点8 の決まり（原文の文字列で照合する）</small></td></tr><tr><td><span class="part">見出しにしないこと</span></td><td>欄が揃っているかを、機械で検める必要がある</td><td><span class="kind k-rule">決まり</span><small>論点6 の決まり（矛盾と不足を見るのは機械の側）</small></td></tr></table></div><h3>引き受けること</h3><ul class="found"><li>前置きは人に読みにくいので、読む用の一覧を生成する</li></ul><h2><span class="sn">4</span>あなたの見解</h2><div class="you">✏　記号を選ぶ（どれでもなければ、そう言う）</div><h2><span class="sn">5</span>決まり</h2><div class="next">選ばれた案が合意になり、次の論点へ</div></section></main>
+</svg><figcaption>フォルダは軸の組み合わせを表す（ファイル名は上の図のとおり、層ごとに違う）。</figcaption></figure><h3>引き受けること</h3><ul class="found"><li>層をまたいで同じファイル名を探せない ── 横断は種別の欄で引く</li><li>層ごとに置く文書の一覧を、references に書いておく必要がある</li></ul><h3>まだ崩れうるところ</h3><ul class="found"><li>層ごとの文書の一覧が、本当にこの4層で閉じるかは確かめていない</li><li>用途の層が「用途」1本で足りるか（用途と実行環境が独立に動く場合）は、まだ見ていない</li></ul><h2><span class="sn">6</span>あなたの見解</h2><div class="you">✏　記号を選ぶ（どれでもなければ、そう言う）</div><h2><span class="sn">7</span>決まり</h2><div class="next">選ばれた案が合意になり、次の論点へ</div></section><section id="p11" role="tabpanel" hidden><p class="eyebrow">論点 11</p><h1>どの制約が在るかを、どう見えるようにするか</h1><div class="note"><b>取得が揺れると、推論の入力が毎回変わる。</b>索引は便利さの話ではなく、出力の安定の話である。</div><h2><span class="sn">1</span>反証を通過した案</h2><div class="scroll"><table class="opts"><tr><th></th><th>案</th><th>中身</th><th>代償</th></tr><tr><td><span class="n ">A</span></td><td><b>scripts が索引を導出する</b></td><td>軸の値を渡すと合致する制約が返り、人が読む一覧も同じ仕組みで生成する</td><td><span class="cost">生成物を正本と取り違えないよう、<b>生成した索引は書き換え禁止にする必要がある</b></span></td></tr><tr><td><span class="n ">B</span></td><td><b>索引を手で書いて置く</b></td><td>制約を足したら、索引にも1行足す</td><td><span class="cost"><b>足し忘れが観測できない。</b>索引に無い制約は、集める側から存在しないのと同じになる</span></td></tr></table></div><h2><span class="sn">2</span>反証で分かったこと</h2><ul class='found'><li><b>索引を導出にすると、不在が観測できる</b> ── 「その軸の制約は0件」と言い切れる</li></ul><h2><span class="sn">3</span>私の推し</h2><div class="concl"><span class="n big">A</span><div><p>scripts が索引を導出する。人は索引を書かない</p></div></div><h3>なぜそう言えるか</h3><div class="scroll"><table class="why"><tr><th>結論のどこを支えるか</th><th>もとにしたこと</th><th>その出どころ</th></tr><tr><td><span class="part">導出にすること</span></td><td>同じ問いに同じ範囲が返らないと、推論の入力が毎回変わる</td><td><span class="kind k-rule">決まり</span><small>schema 観の三層の論点2（取得は冪等でありうる）</small></td></tr><tr><td><span class="part">手で書かないこと</span></td><td>足し忘れは、不在として現れない</td><td><span class="kind k-rule">決まり</span><small>論点3 の決まり（宣言されない差は、上書きの形でしか現れない）</small></td></tr></table></div><h3>引き受けること</h3><ul class="found"><li>生成した索引を、正本と取り違えないようにする</li></ul><h2><span class="sn">4</span>あなたの見解</h2><div class="you">✏　記号を選ぶ（どれでもなければ、そう言う）</div><h2><span class="sn">5</span>決まり</h2><div class="next">選ばれた案が合意になり、次の論点へ</div></section><section id="p12" role="tabpanel" hidden><p class="eyebrow">論点 12</p><h1>制約1件を、Markdown でどう書くか</h1><div class="note"><b>schema へ落とすことを前提にする。</b>機械が読む欄と、人が読む本文を分けられる形を選ぶ。</div><h2><span class="sn">1</span>反証を通過した案</h2><div class="scroll"><table class="opts"><tr><th></th><th>案</th><th>中身</th><th>代償</th></tr><tr><td><span class="n ">A</span></td><td><b>前置き（front matter）に欄、本文に言明</b></td><td>軸・出典・穴か・実行できるか を前置きへ、言明そのものを本文へ書く</td><td><span class="cost"><b>前置きは人に読みにくい。</b>読む用の一覧を、別に生成する必要がある</span></td></tr><tr><td><span class="n ">B</span></td><td><b>表で並べる（1行1制約）</b></td><td>欄を列にして、制約を行として並べる</td><td><span class="cost"><b>欄が増えると横に伸びて読めない。</b>出典のように長い欄が入ると破綻する</span></td></tr><tr><td><span class="n ">C</span></td><td><b>見出しで構造を作る</b></td><td>制約ごとに見出しを立て、その下に欄を節として書く</td><td><span class="cost"><b>欄の有無を機械で検めにくい。</b>見出しの揺れがそのまま欄の揺れになる</span></td></tr></table></div><h2><span class="sn">2</span>反証で分かったこと</h2><ul class='found'><li><b>欄と本文を分ける形は、そのまま schema の形になる</b> ── 前置きが構造、本文が推論で埋まる値</li><li><b>これは三層の「値だけを推論させる」と同じ形である</b> ── 構造は前置きが決め、言明だけが書き手に残る</li></ul><h2><span class="sn">3</span>私の推し</h2><div class="concl"><span class="n big">A</span><div><p>前置きに欄（軸・出典・穴か・実行できるか）を持ち、本文に言明を書く</p></div></div><h3>なぜそう言えるか</h3><div class="scroll"><table class="why"><tr><th>結論のどこを支えるか</th><th>もとにしたこと</th><th>その出どころ</th></tr><tr><td><span class="part">欄と本文を分けること</span></td><td>構造は schema が決め、推論に載るのは値だけである</td><td><span class="kind k-rule">決まり</span><small>schema 観の三層の論点1</small></td></tr><tr><td><span class="part">表にしないこと</span></td><td>出典は原文の文字列まで持つので、1つの欄が長くなる</td><td><span class="kind k-rule">決まり</span><small>論点8 の決まり（原文の文字列で照合する）</small></td></tr><tr><td><span class="part">見出しにしないこと</span></td><td>欄が揃っているかを、機械で検める必要がある</td><td><span class="kind k-rule">決まり</span><small>論点6 の決まり（矛盾と不足を見るのは機械の側）</small></td></tr></table></div><h3>引き受けること</h3><ul class="found"><li>前置きは人に読みにくいので、読む用の一覧を生成する</li></ul><h2><span class="sn">4</span>あなたの見解</h2><div class="you">✏　記号を選ぶ（どれでもなければ、そう言う）</div><h2><span class="sn">5</span>決まり</h2><div class="next">選ばれた案が合意になり、次の論点へ</div></section></main>
 <script>
 (function(){
   const marks = [...document.querySelectorAll('mark.chg')];

diff --git a/.waffle/skills/brainstorm/references/build_board.py b/.waffle/skills/brainstorm/references/build_board.py
@@ -65,6 +65,7 @@ class Table:
     columns: list[str]
     rows: dict[str, list[str]]
     lead: str | None = None
+    plain: bool = False  # 行の見出しが案の記号でないとき（層の名前など）は True
 
 
 def _mark(text: str, before: str, why: str, deleted: bool = False) -> str:
@@ -141,8 +142,11 @@ def _sections(t: Topic) -> str:
     for tb in t.tables:
         n += 1
         lead = f'<p class="lead">{tb.lead}</p>' if tb.lead else ""
-        rows = [[_key(k)] + list(v) for k, v in tb.rows.items()]
-        secs.append(_sec(n, tb.caption, lead + _table([""] + tb.columns, rows)))
+        rows = [[(f'<b>{k}</b>' if tb.plain else _key(k))] + list(v)
+                for k, v in tb.rows.items()]
+        secs.append(_sec(n, tb.caption,
+                         lead + _table([""] + tb.columns, rows,
+                                       "plainkey" if tb.plain else "")))
     if t.dropped:
         n += 1
         rows = [[_key("×", "out"),
@@ -276,6 +280,8 @@ table.out b{color:var(--out);text-decoration:line-through}
 table.chain th:first-child,table.chain td:first-child{width:6.5rem;padding-right:.6rem}
 table.why{border-collapse:separate;border-spacing:0}
 table.why th{padding-bottom:.4rem}
+table.plainkey th:first-child,table.plainkey td:first-child{width:9rem;padding-right:.9rem;
+  white-space:normal;color:var(--key)}
 table.why th:first-child,table.why td:first-child{width:23%;padding-right:.8rem}
 table.why th:last-child,table.why td:last-child{width:27%}
 table.why td{border-bottom:none;padding:.65rem .7rem;background:var(--surface,transparent)}
